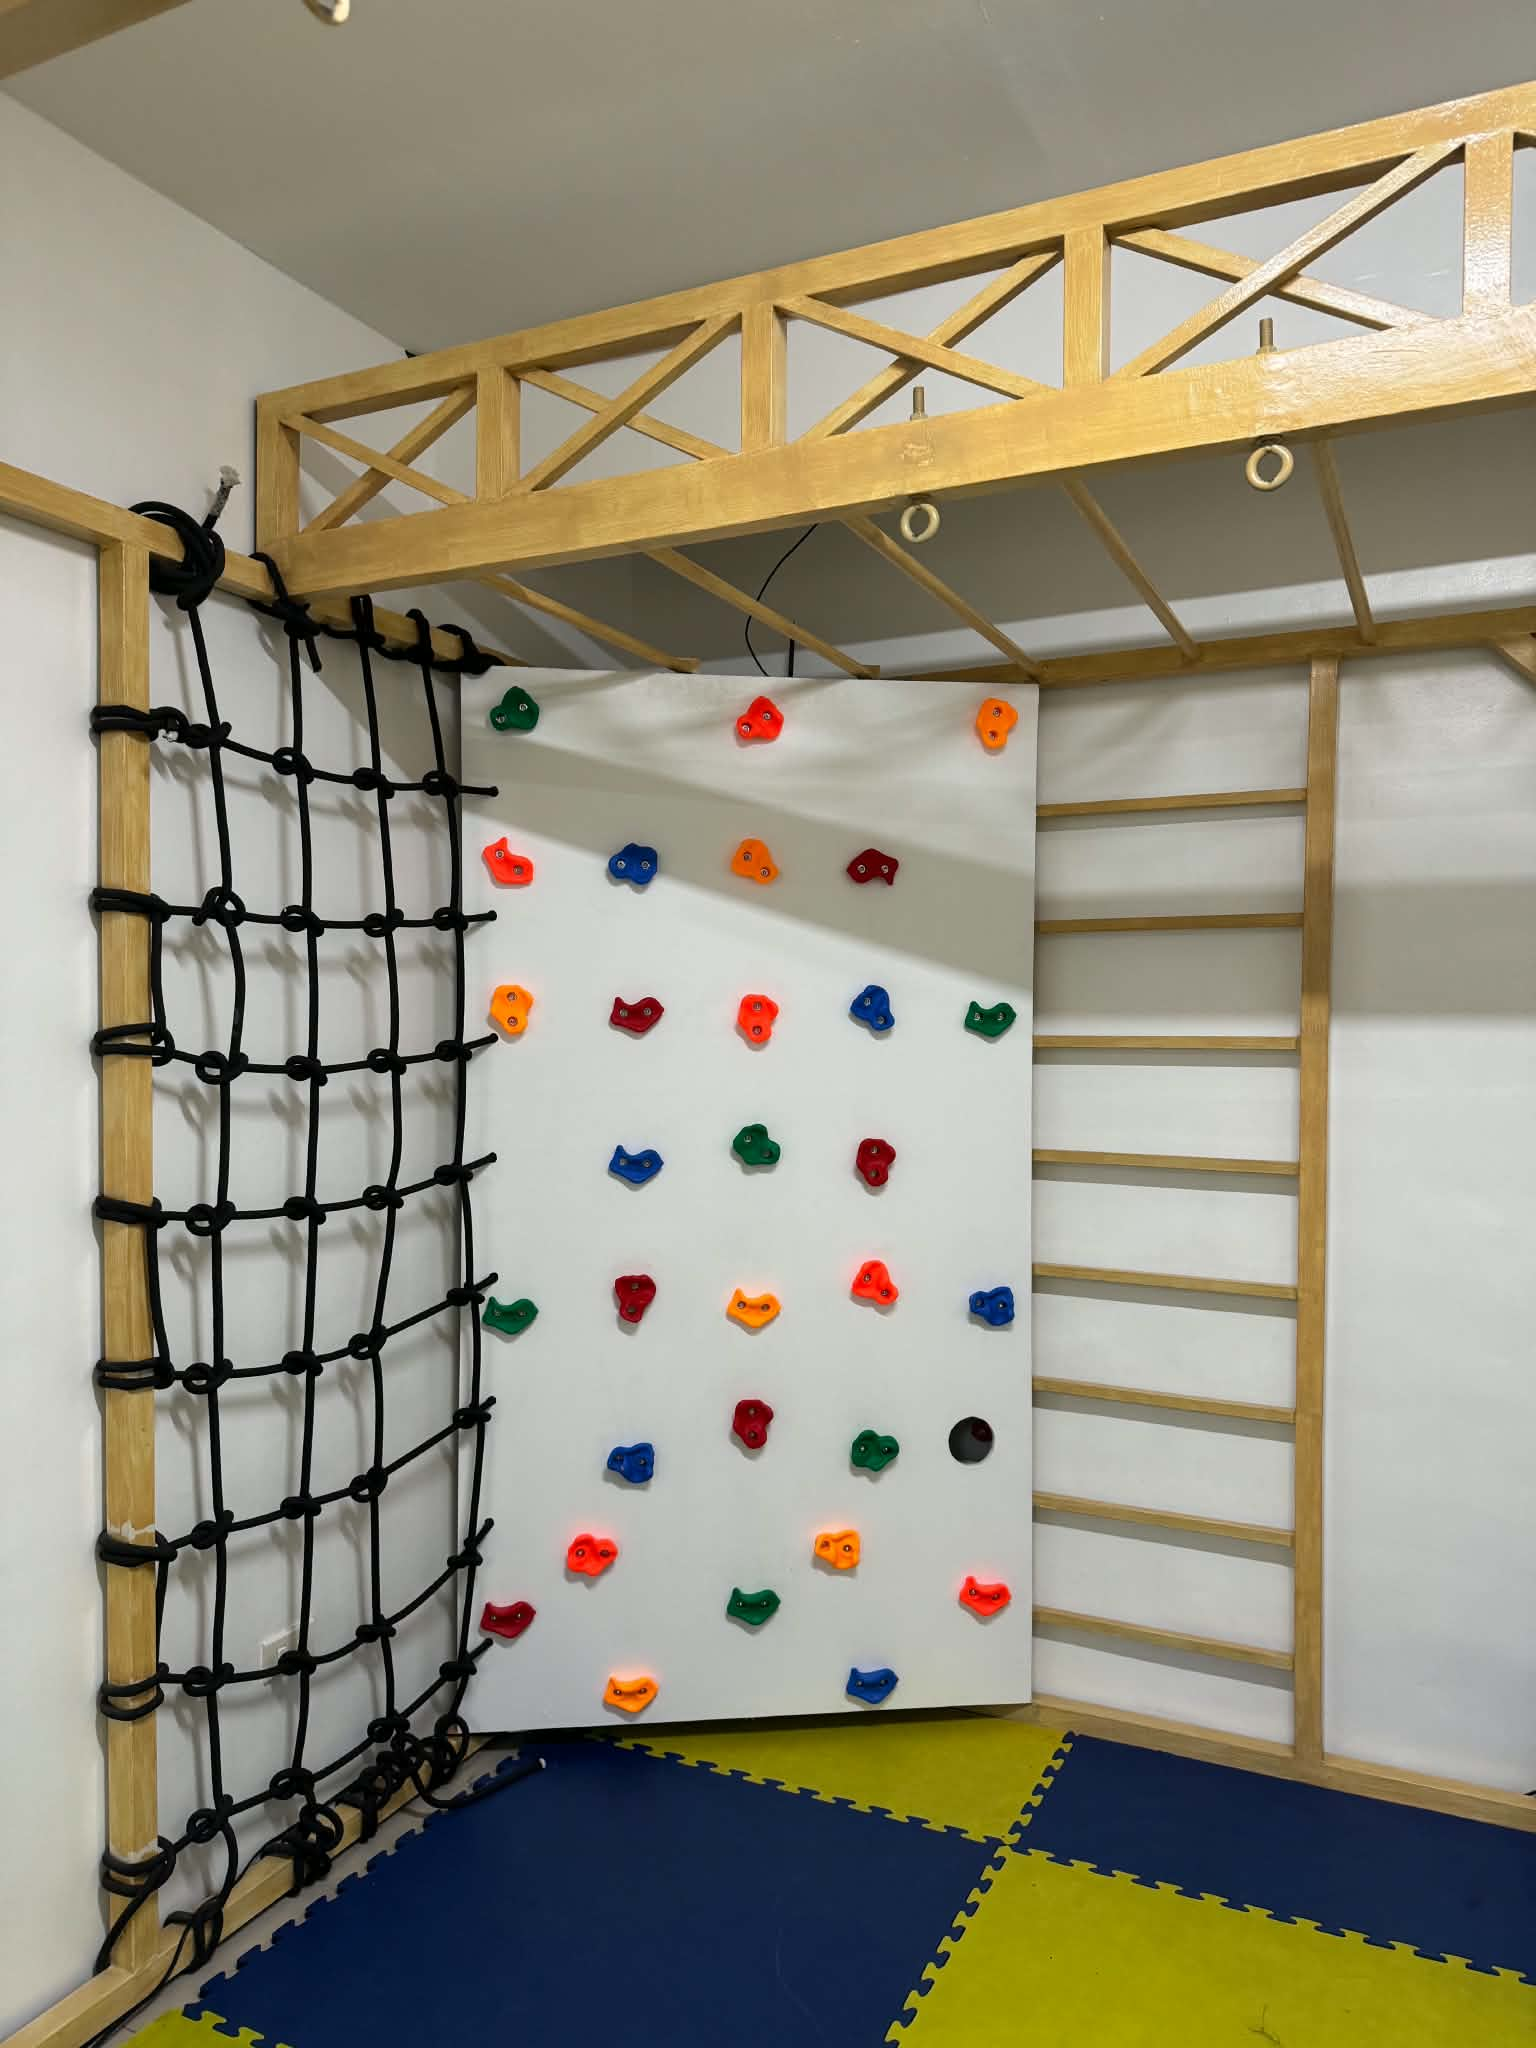
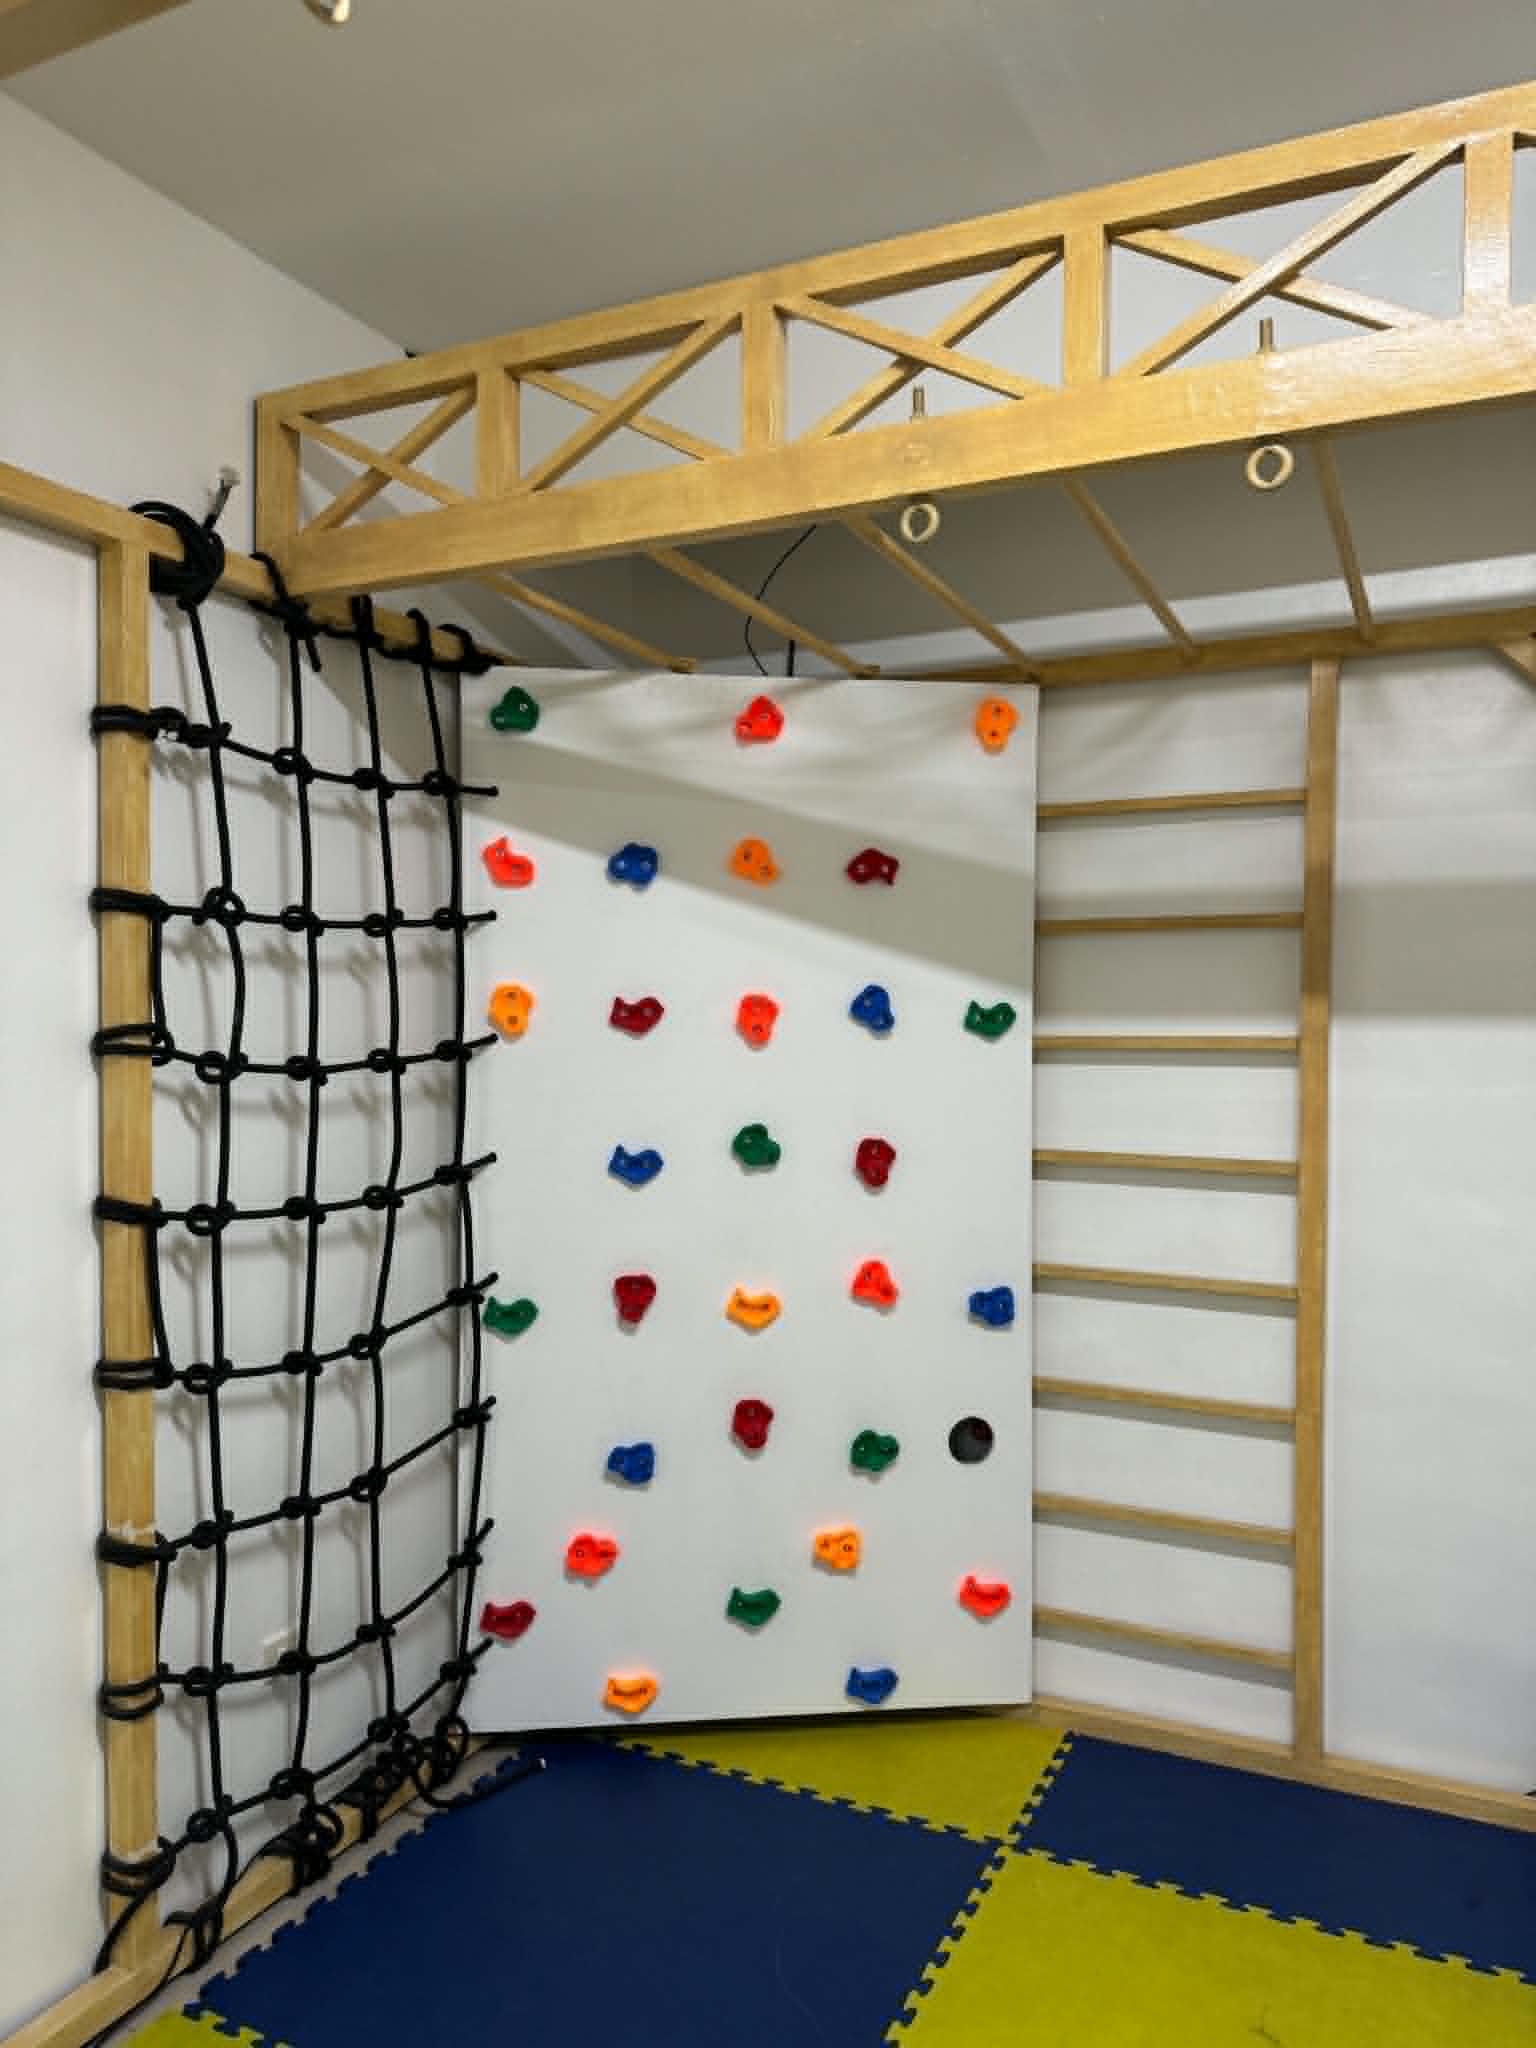
edit time header for ie, spec & plysch

diff --git a/app/sessions/page.js b/app/sessions/page.js
@@ -697,7 +697,15 @@ export default function SchedulePage() {
                         }}>
                         <div style={{ 
                           position: 'absolute', top: 0, left: 0, right: 0,
-                          background: sc.color, color: 'white', 
+                          background: (() => {
+                            const t = (s.session_Type || '').toUpperCase()
+                            if (t.includes('IE') || t.includes('EVALUATION')) return '#2196F3'
+                            if (t.includes('FE')) return '#64B5F6'
+                            if (t.includes('SPECIALIZED')) return '#9C27B0'
+                            if (t.includes('PLAYSCHOOL')) return '#CE93D8'
+                            return sc.color
+                          })(), 
+                          color: 'white', 
                           fontSize: '9px', fontWeight: '500', 
                           padding: '2px 6px', 
                           borderRadius: '4px 4px 0 0',